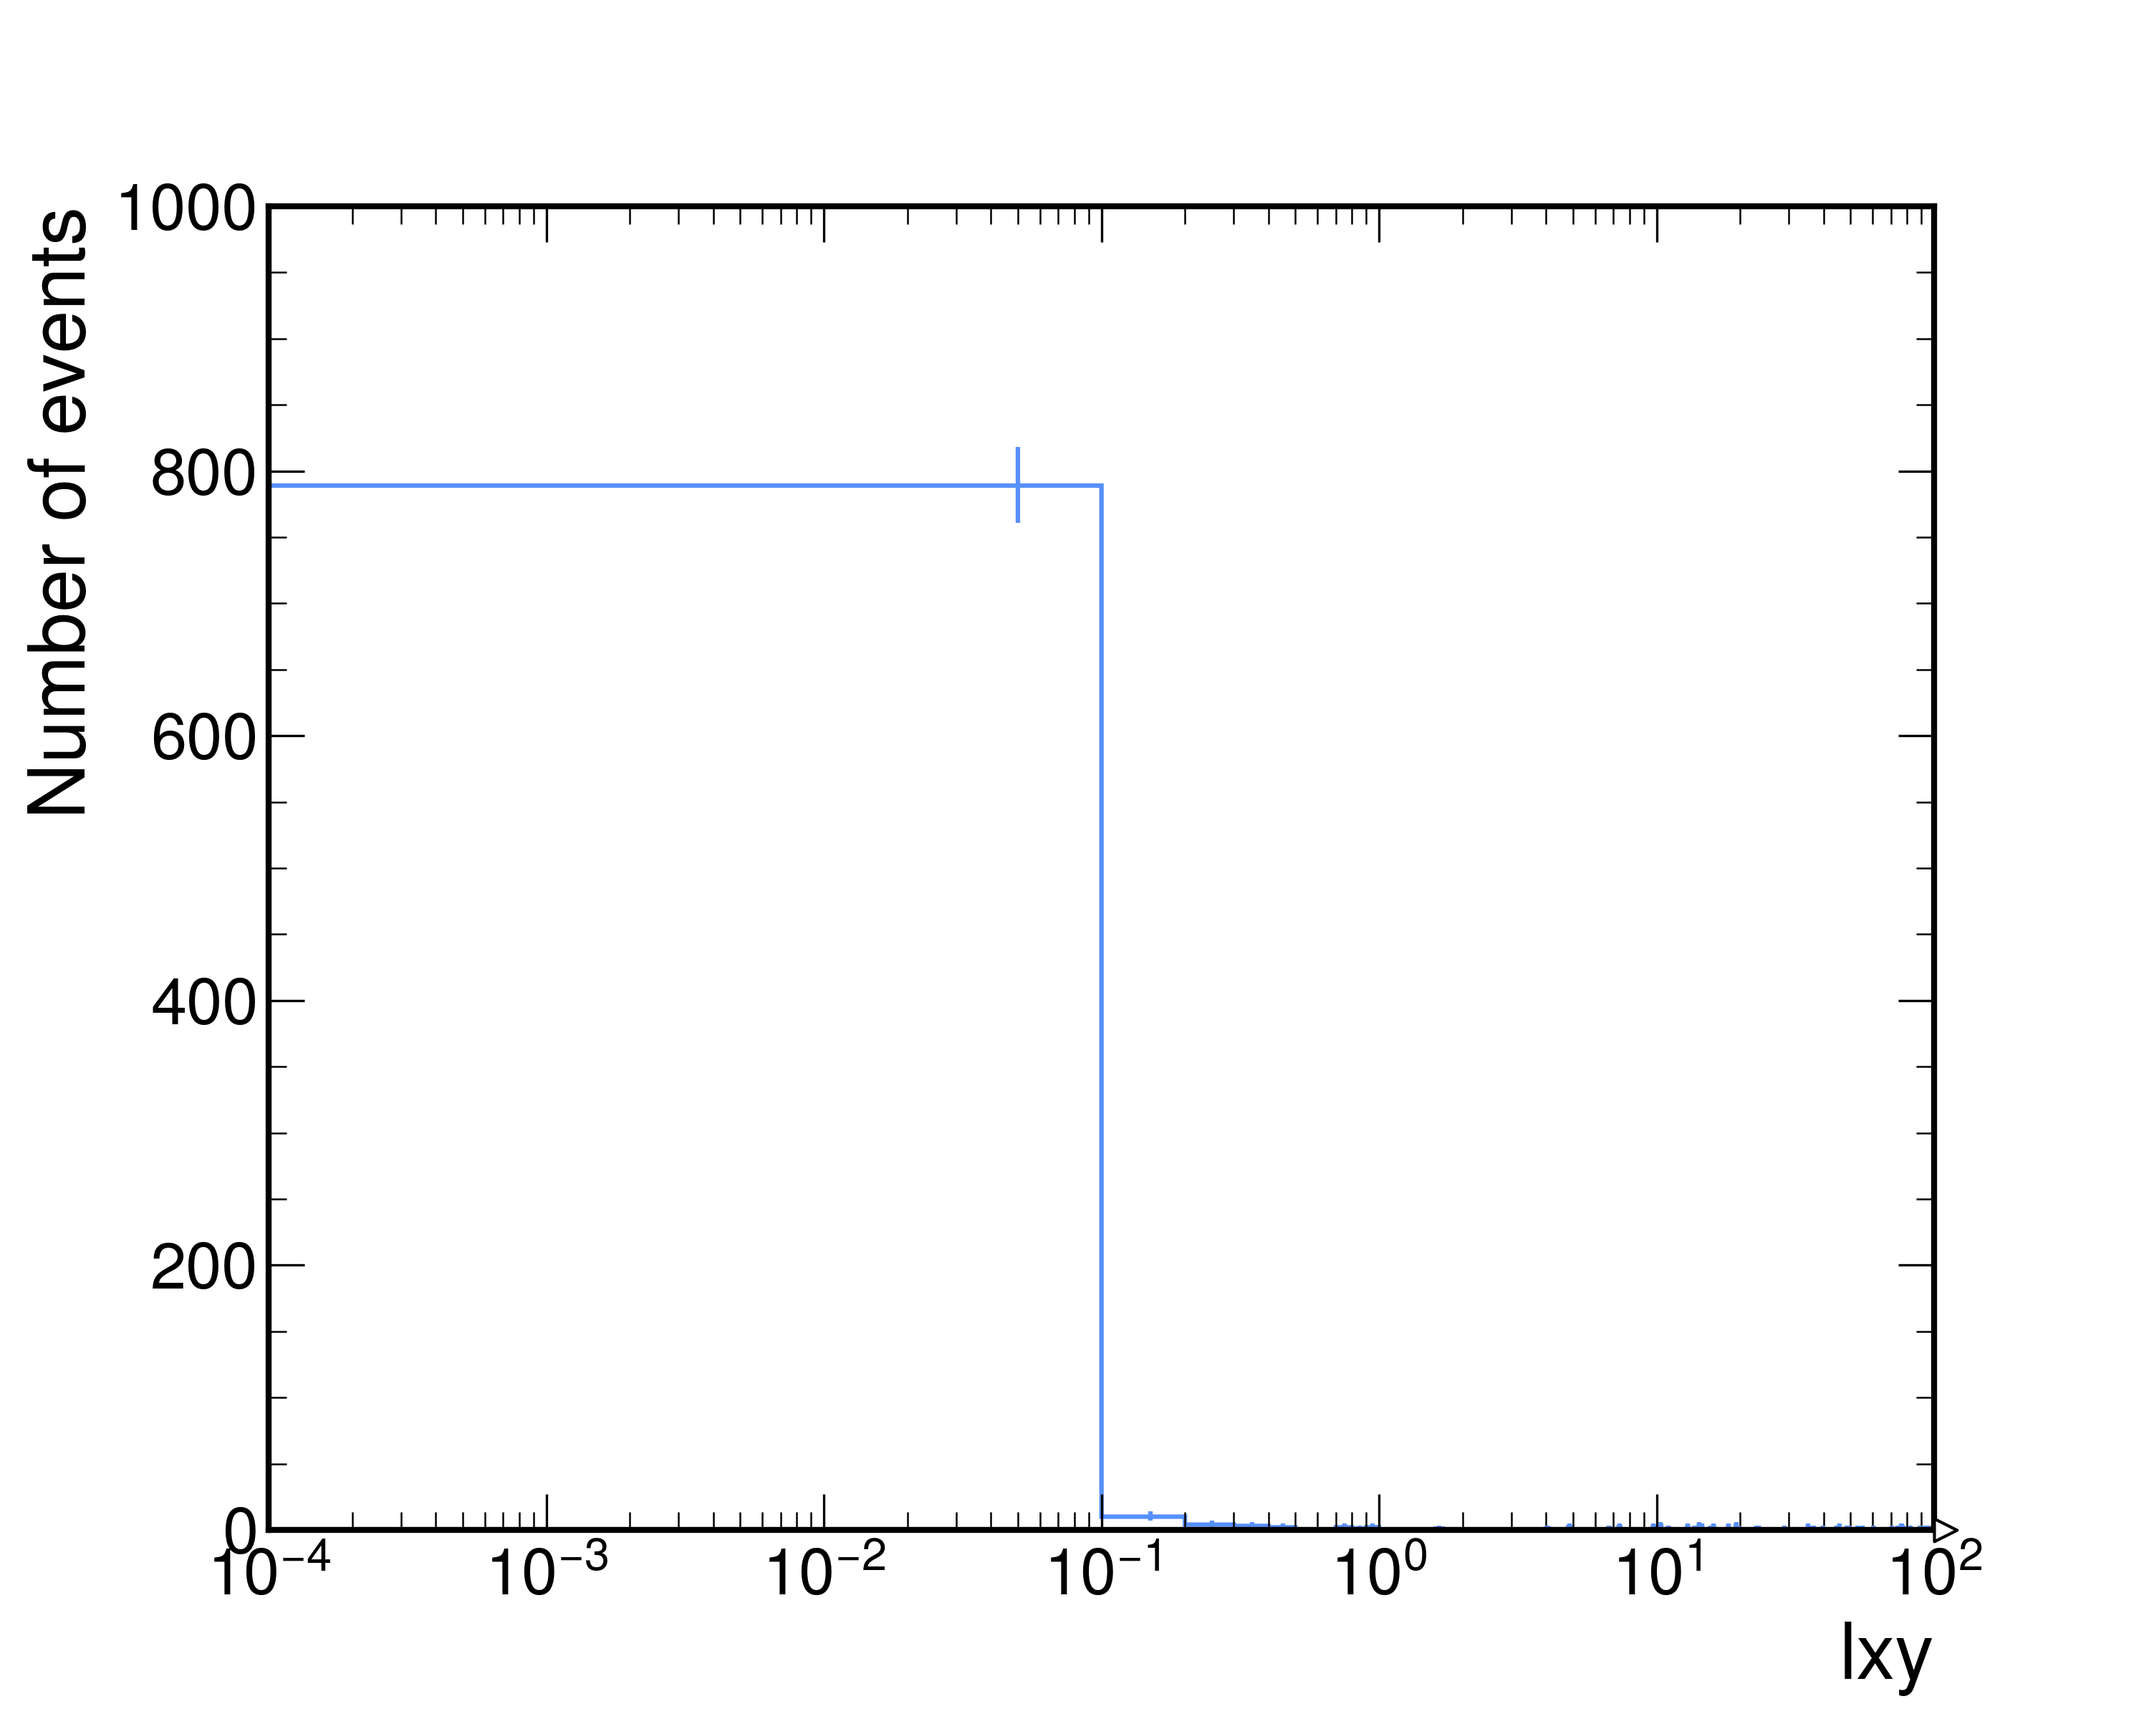
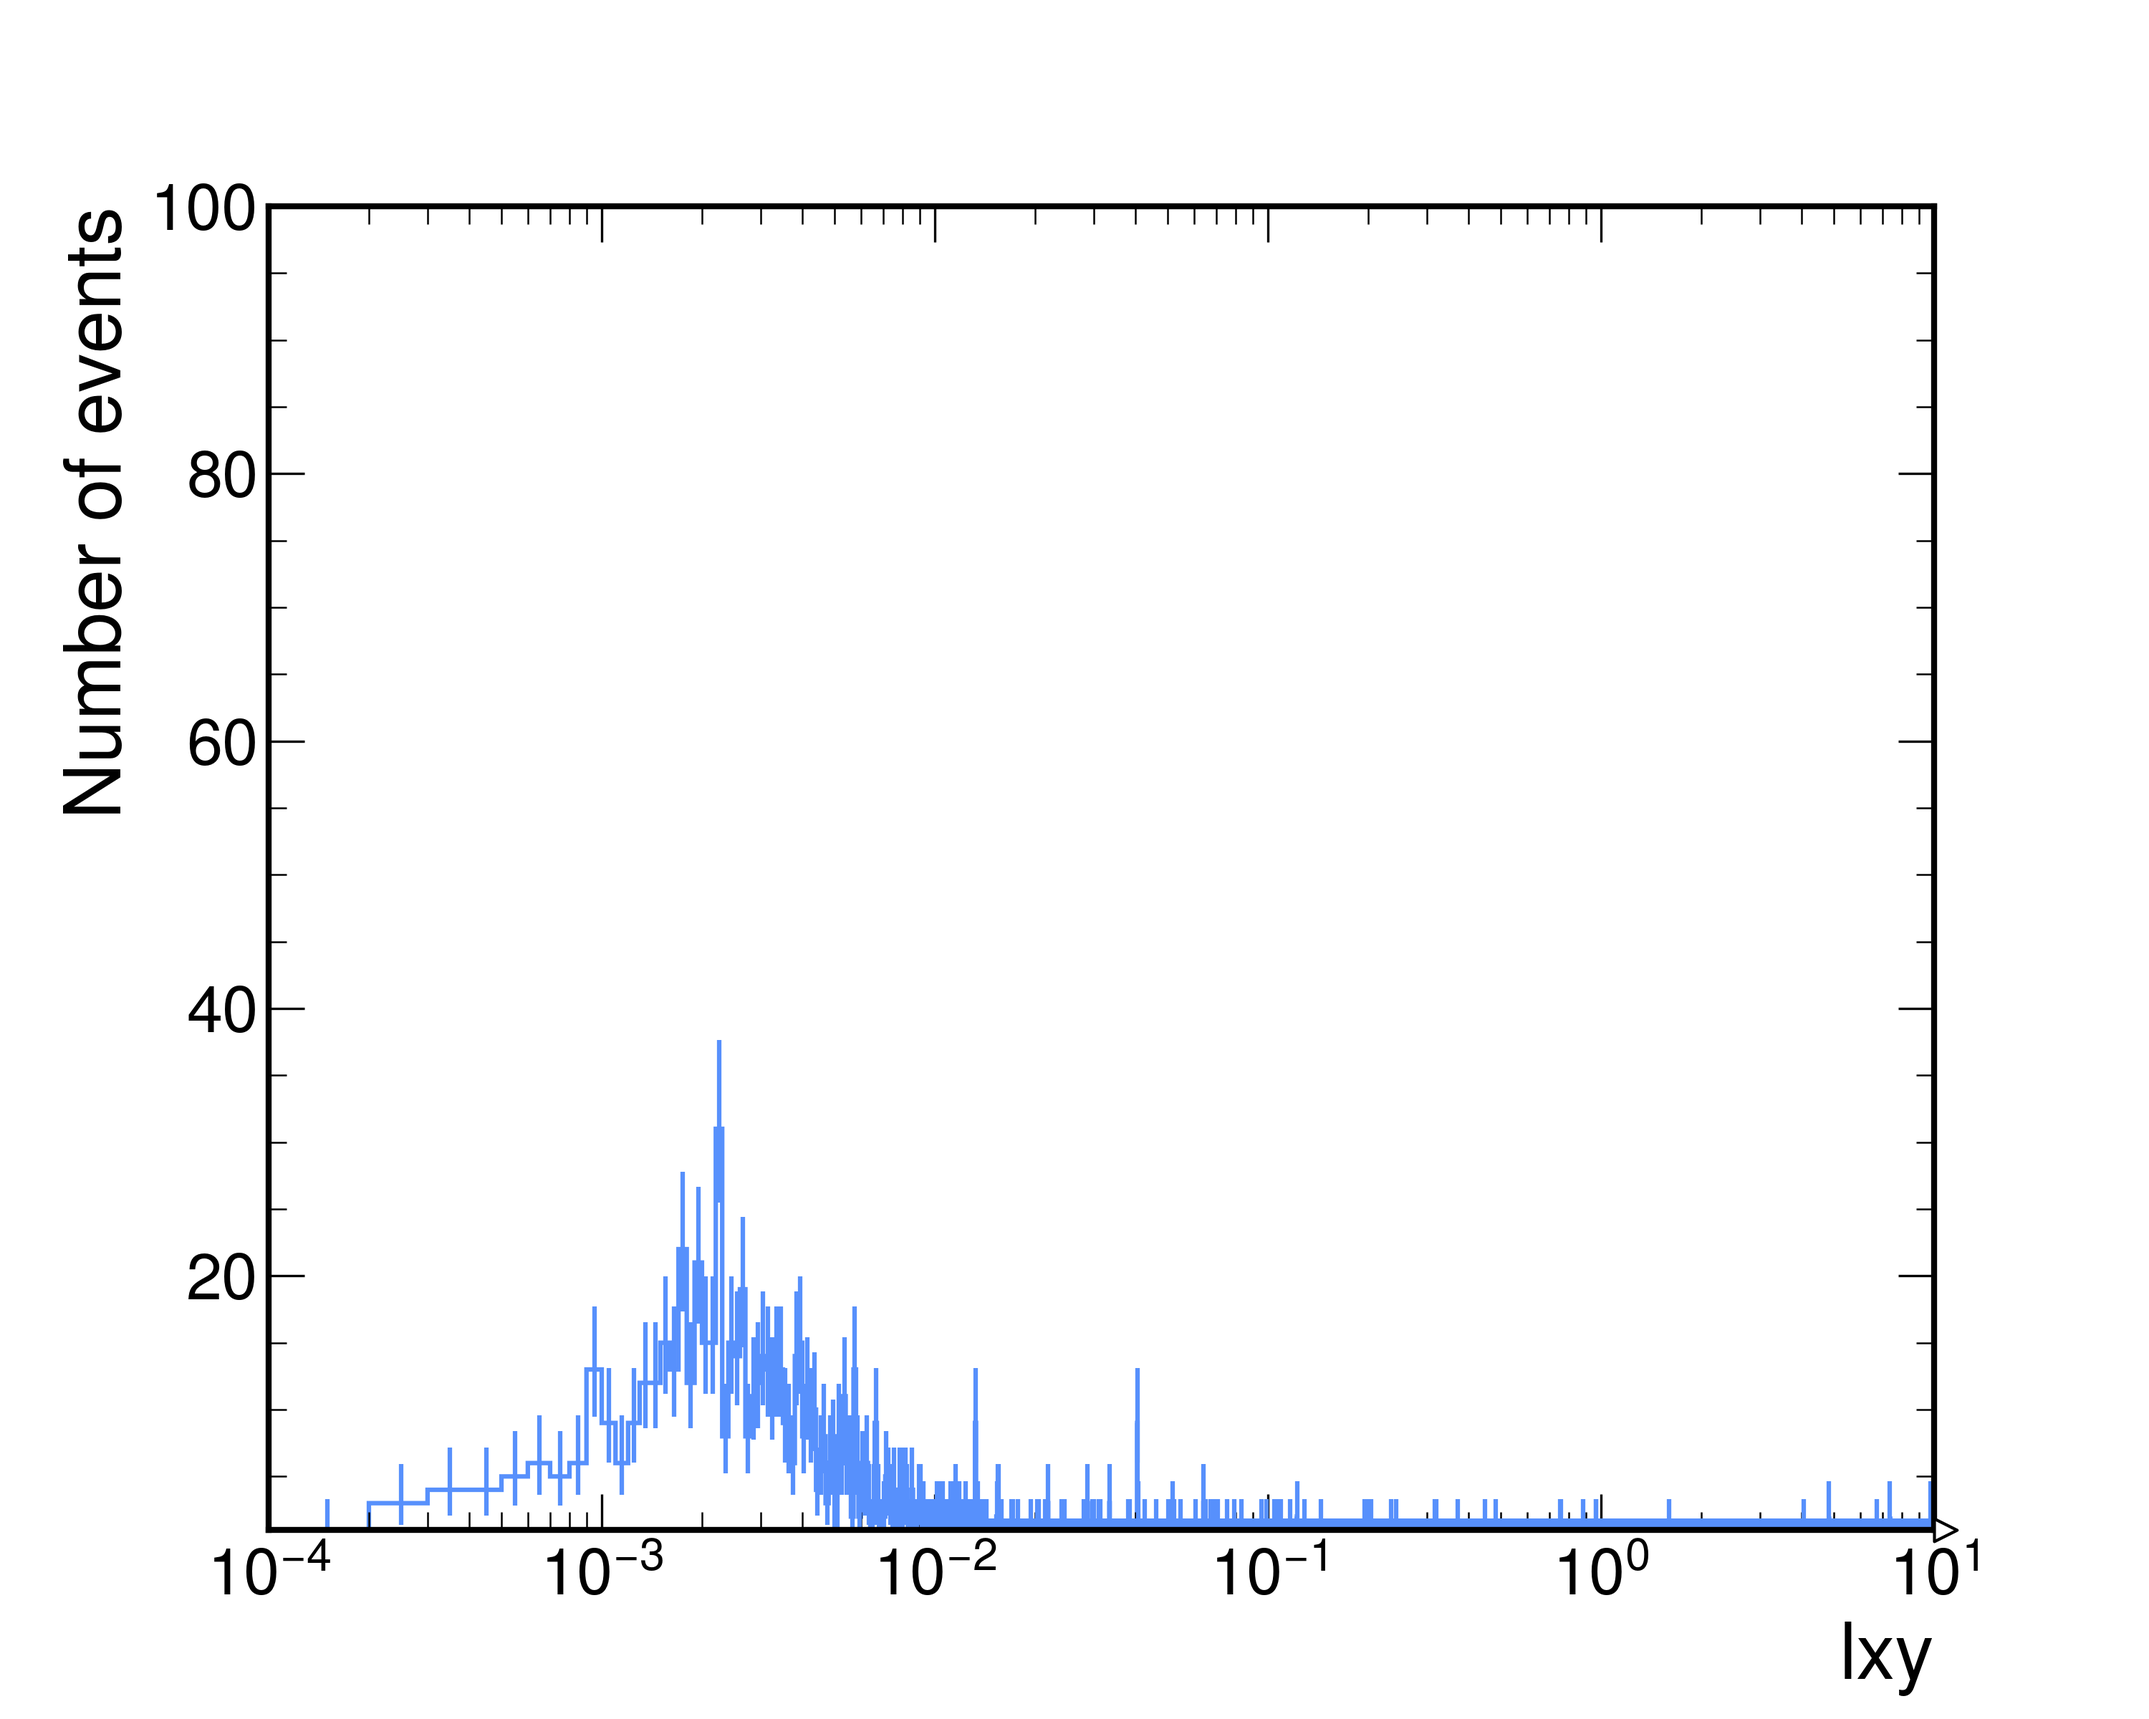
Rescale to fit important part

diff --git a/make.py b/make.py
@@ -90,8 +90,8 @@ finally:
         print(f"> Opened filtered sample with {len(events)} events") # 500_206 events Vtx TrgOR, # 356_664 events NoVtx TrgNoVtx
 ###################################################
 
-    lxy_range = (0.0001, 100)
-    h_lxy = hist.new.Reg(1000, lxy_range[0], lxy_range[1], name="lxy", label="lxy").Double()
+    lxy_range = (0.0001, 10)
+    h_lxy = hist.new.Reg(100000, lxy_range[0], lxy_range[1], name="lxy", label="lxy").Double()
 
     ## Remove muons of pt less than 20 and |eta| greater than/eq to 2.4
     mask_pt = events["ScoutingMuonNoVtx_pt"] >= 20

diff --git a/draw.py b/draw.py
@@ -43,10 +43,6 @@ nonzero_vals = bin_values[bin_values > 0]
 yMin = 10**np.floor(np.log10(nonzero_vals.min()))
 yMax = 10**np.ceil(np.log10(nonzero_vals.max()))
 
-print("Printing yvals")
-print(bin_values[min_idx], np.log10(bin_values[min_idx]), yMin)
-print(bin_values[max_idx], np.log10(bin_values[max_idx]), yMax)
-print("Done")
 ax.set_ylim(yMin, yMax)
 ax.set_xlabel("lxy")
 ax.set_ylabel("Number of events")
